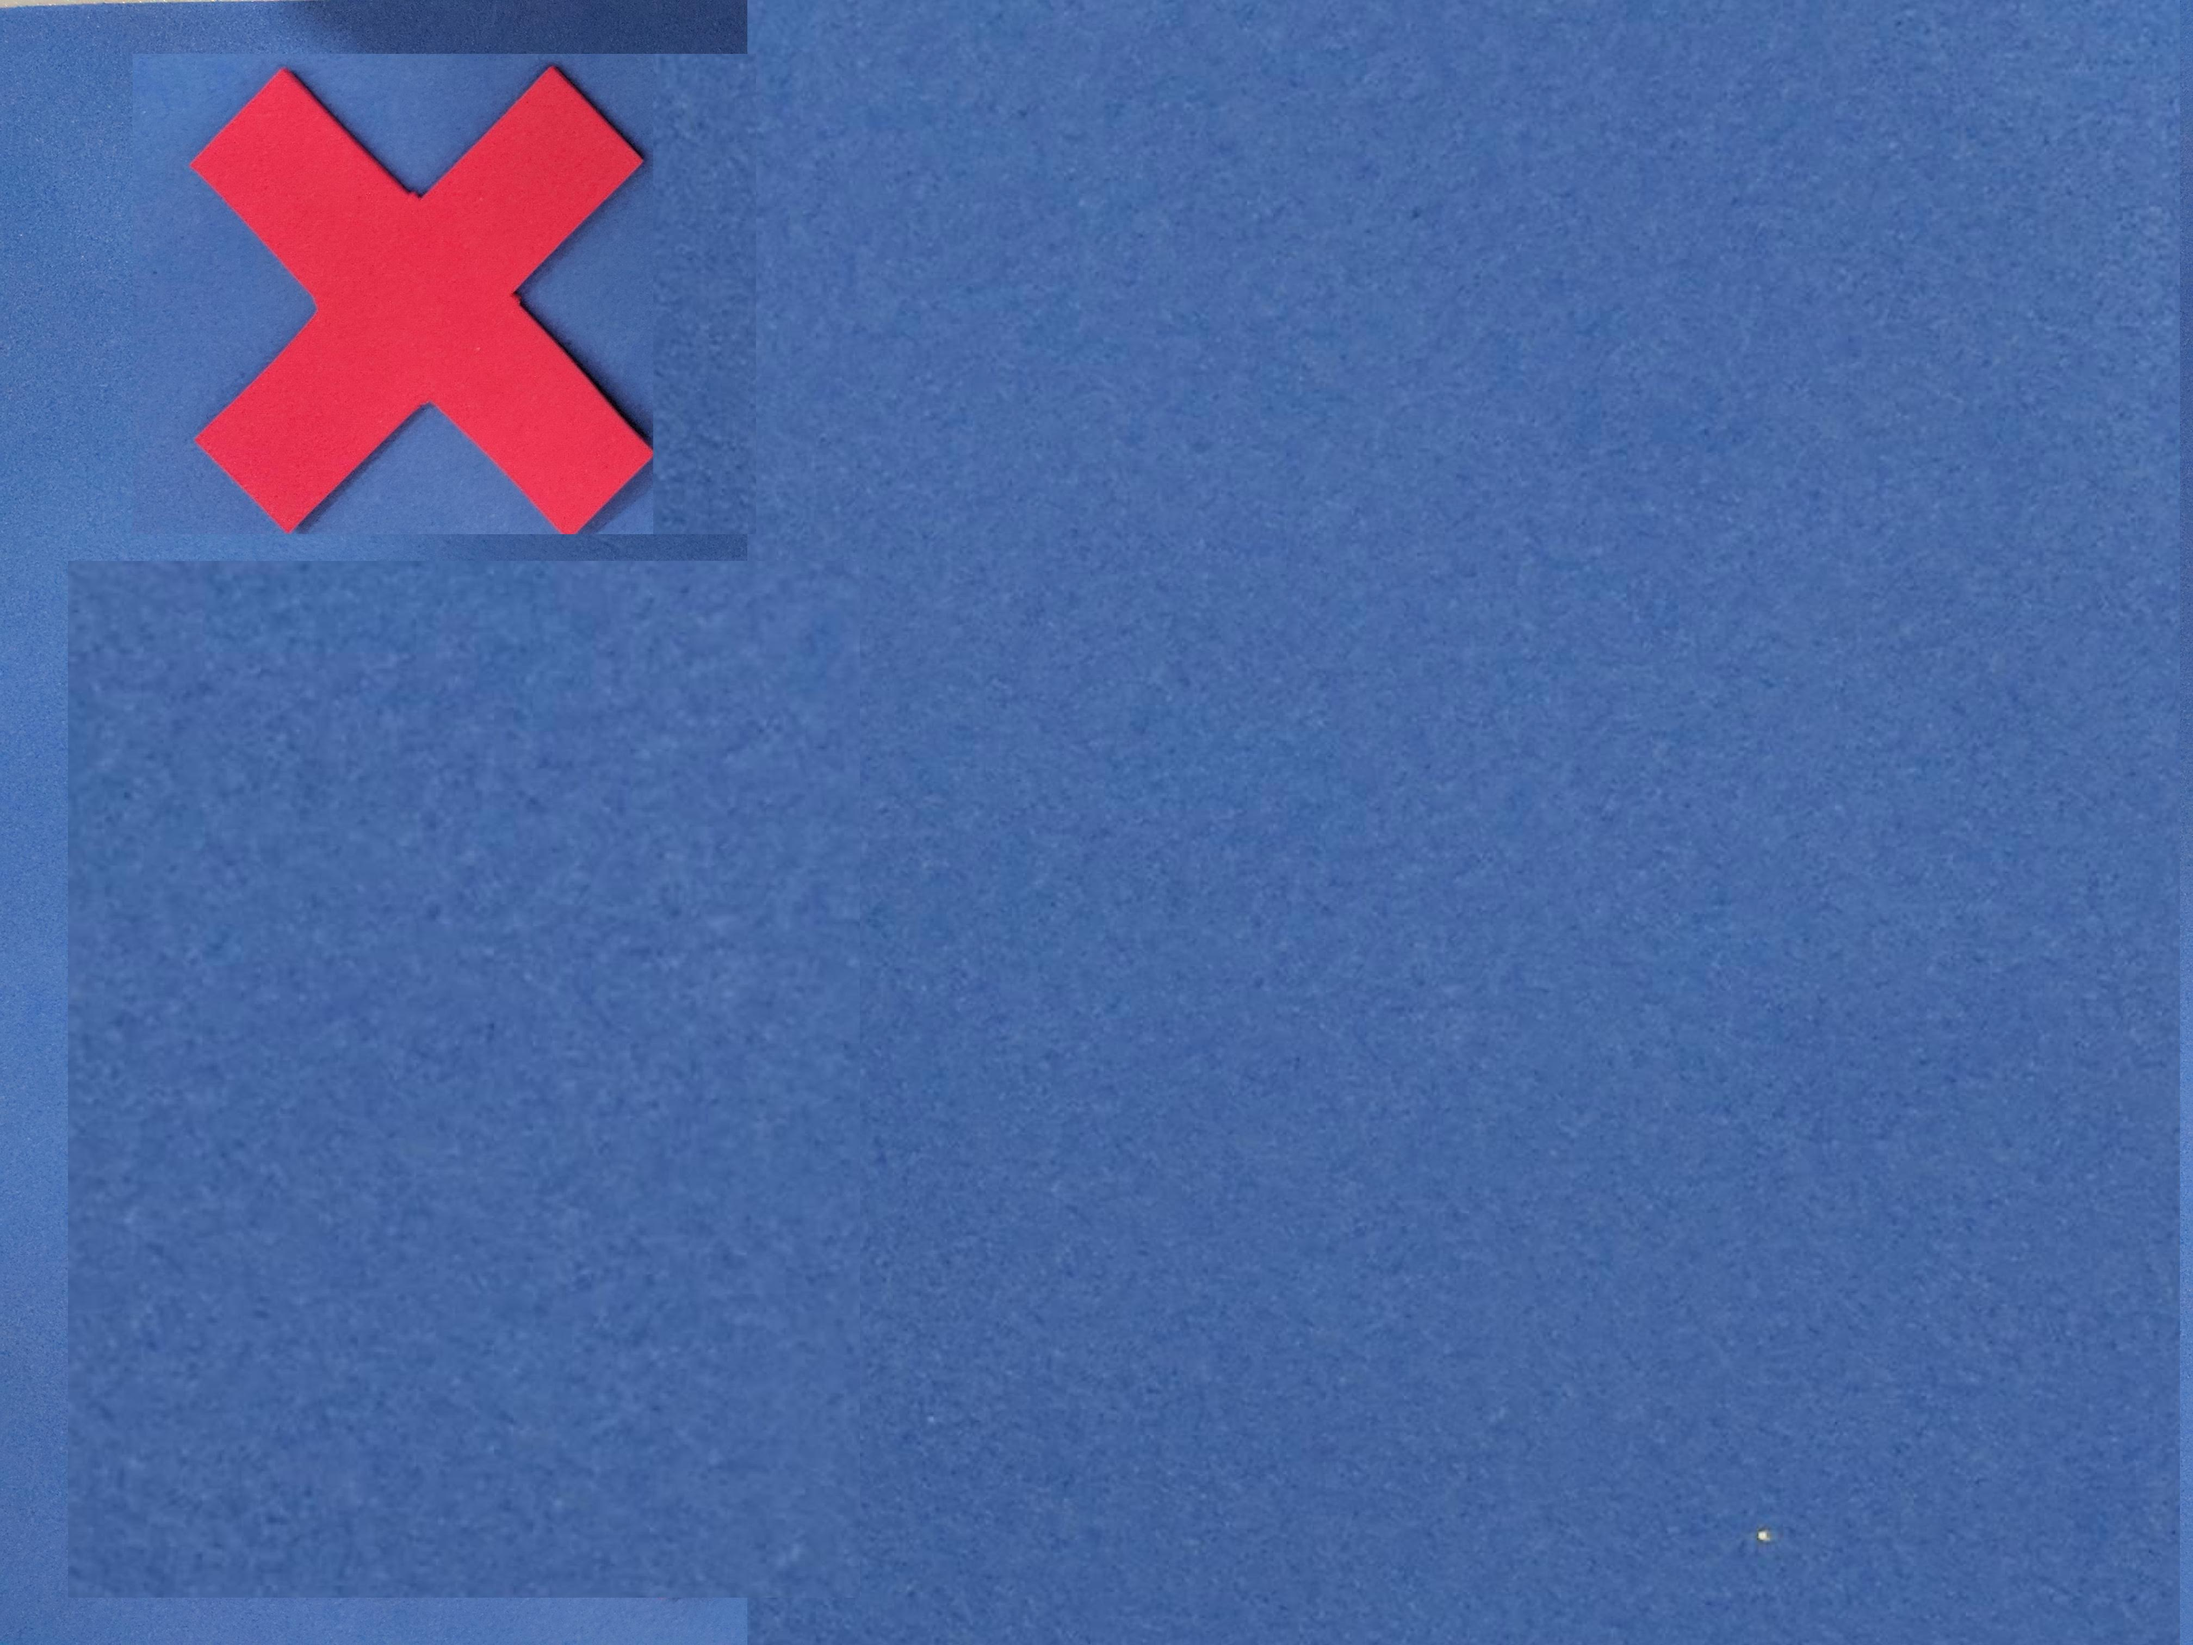
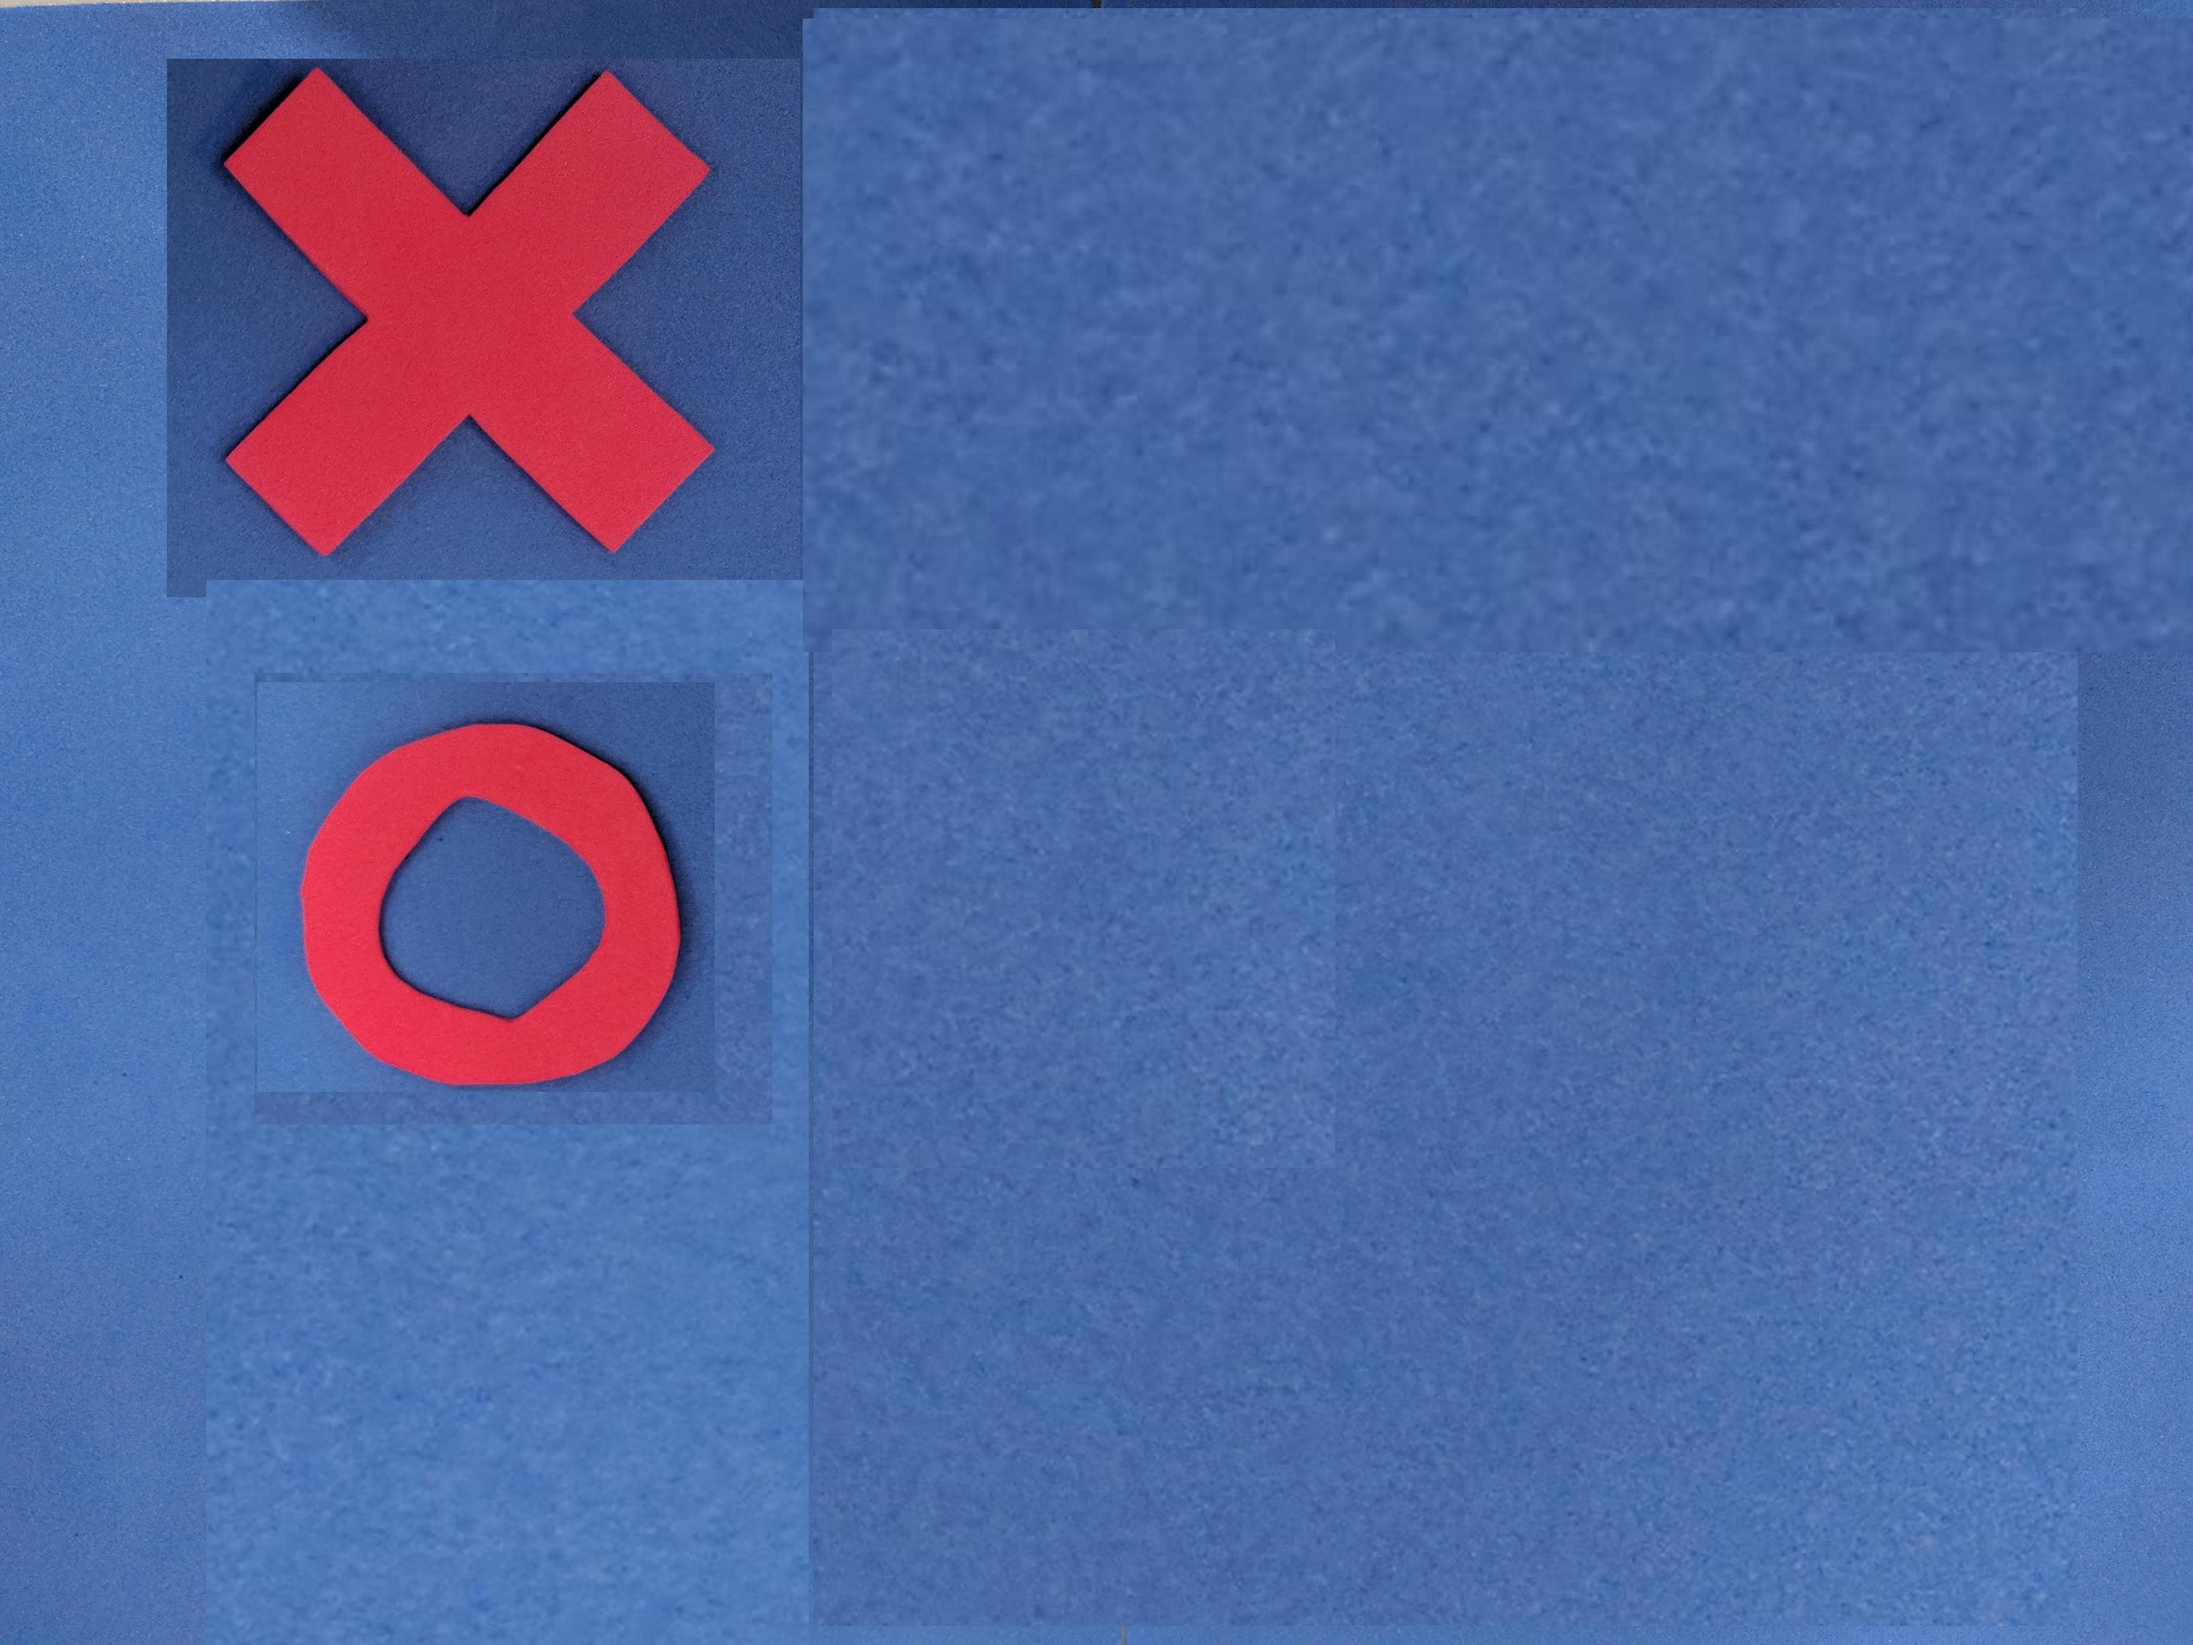
#20190822B 基本功能已实现 等待测试

Changed region(s): [[0.0312, 0.0, 0.8438, 1.0], [0.7188, 0.5906, 1.0, 1.0], [0.0312, 0.7771, 0.0625, 0.8082]]

diff --git a/SerialArduino.py b/SerialArduino.py
@@ -5,24 +5,28 @@ import time
 import serial
 import serial.tools.list_ports
 import numpy as np
+import configparser
 class SerialArduino():
-    def __init__(self,port,Baudrate=9600):
-        self.port=port
+    def __init__(self,Baudrate=9600):
+        cf = configparser.ConfigParser()
+        cf.read("./config.ini")
+        Port = cf.get("Setting", "Port")
+        self.port=Port
         self.Baudrate=Baudrate
     def GetAllPort(self):
         port_list = []
         for port in list(serial.tools.list_ports.comports()):
             port_list.append(port[0])
         return port_list
-    def IsPortExit(self,port):
+    def IsPortExit(self):
         port_list = self.GetAllPort()
-        if port in port_list:
+        if self.port in port_list:
             return True
         else:
             return False
     def ConnectArduino(self):
         Flag=False
-        if self.IsPortExit(self.port):
+        if self.IsPortExit():
             try:
                 ser = serial.Serial(self.port,self.Baudrate, timeout=1)
                 Flag = True
@@ -50,37 +54,10 @@ class SerialArduino():
                 RecvFlag=True
                 print("发送成功")
             print(str1)
-        if not RecvFlag:
-            print("发送成功，但未接收到反馈信息，请检查Arduino板Mode")
+            if not RecvFlag:
+                print("发送成功，但未接收到反馈信息，请检查Arduino板Mode")
         return SendFlag
 if __name__ == '__main__':
-    ser=SerialArduino(port='/dev/cu.wchusbserial1410')
+    ser = SerialArduino()
     ser.SendByteToArduino(1)
-
-    # ser= ConnectArduino('/dev/cu.wchusbserial1410', 9600)
-    # ser = ConnectArduino('/dev/cu.wchusbserial1410', 9600)
-    # if ser:
-    #     ser.write(b"<aa>\n")
-    #     time.sleep(1)
-    #     str=ser.read_all()
-    #     str1=str.decode("utf-8")
-    #     print(str)
-    #     print(str1)
-    #     ser.write(b"<aa>\n")
-    #     time.sleep(1)
-    #     str = ser.read_all()
-    #     str1 = str.decode("utf-8")
-    #     print(str)
-    #     print(str1)
-
-
-    # except SerialException as e:
-    #
-    # while 1:
-    #     ser.write(b"<aa>\n")
-    #     time.sleep(1)
-    #     str=ser.read_all()
-    #     str1=str.decode("utf-8")
-    #     print(str)
-    #     print(str1)
 

diff --git a/game.py b/game.py
@@ -124,9 +124,11 @@ class Human(Player):
         while looping:
             try:
                 a = input("请你放置棋子，放置完成后按回车结束")
+                import time
+                t=time.time()
                 pos = self.GetPlayerPos(self.inp)  # 输入的下标从1开始
+                print("耗时：",time.time()-t)
                 self.inp=self.inp+2
-                print(self.inp,pos)
                 if 0 <= pos <= 8:
                     if board[pos] == SPACE:
                         looping = False
@@ -213,5 +215,8 @@ class Game:
 
 
 if __name__ == '__main__':
-    ser = SerialArduino(port='/dev/cu.wchusbserial1410')
-    Game().start()
+    ser = SerialArduino() #尝试串口连接arduino
+    if ser.IsPortExit():
+        Game().start()
+    else:
+        print("配置文件端口号%s不存在"%ser.port,"当前所有端口为：",ser.GetAllPort())

diff --git a/TicTacToe.py b/TicTacToe.py
@@ -3,7 +3,7 @@ import time
 
 import cv2
 import numpy as np
-broad=[[0,0],[1,0],[2,0],[0,1],[1,1],[2,1],[0,2],[1,1],[2,2]]
+broad=[[0,0],[1,0],[2,0],[0,1],[1,1],[2,1],[0,2],[1,2],[2,2]]
 #Find the maximum contour
 def findmaxcontour(contours):
     maxarea = 0
@@ -108,5 +108,4 @@ def GetBroadDic(path=2):
         print("Error,Get Broad_Dic error")
 
 if __name__ == '__main__':
-    for i in range(1,7):
-        print(GetBroadDic(i))
+    GetBroadDic(7)
